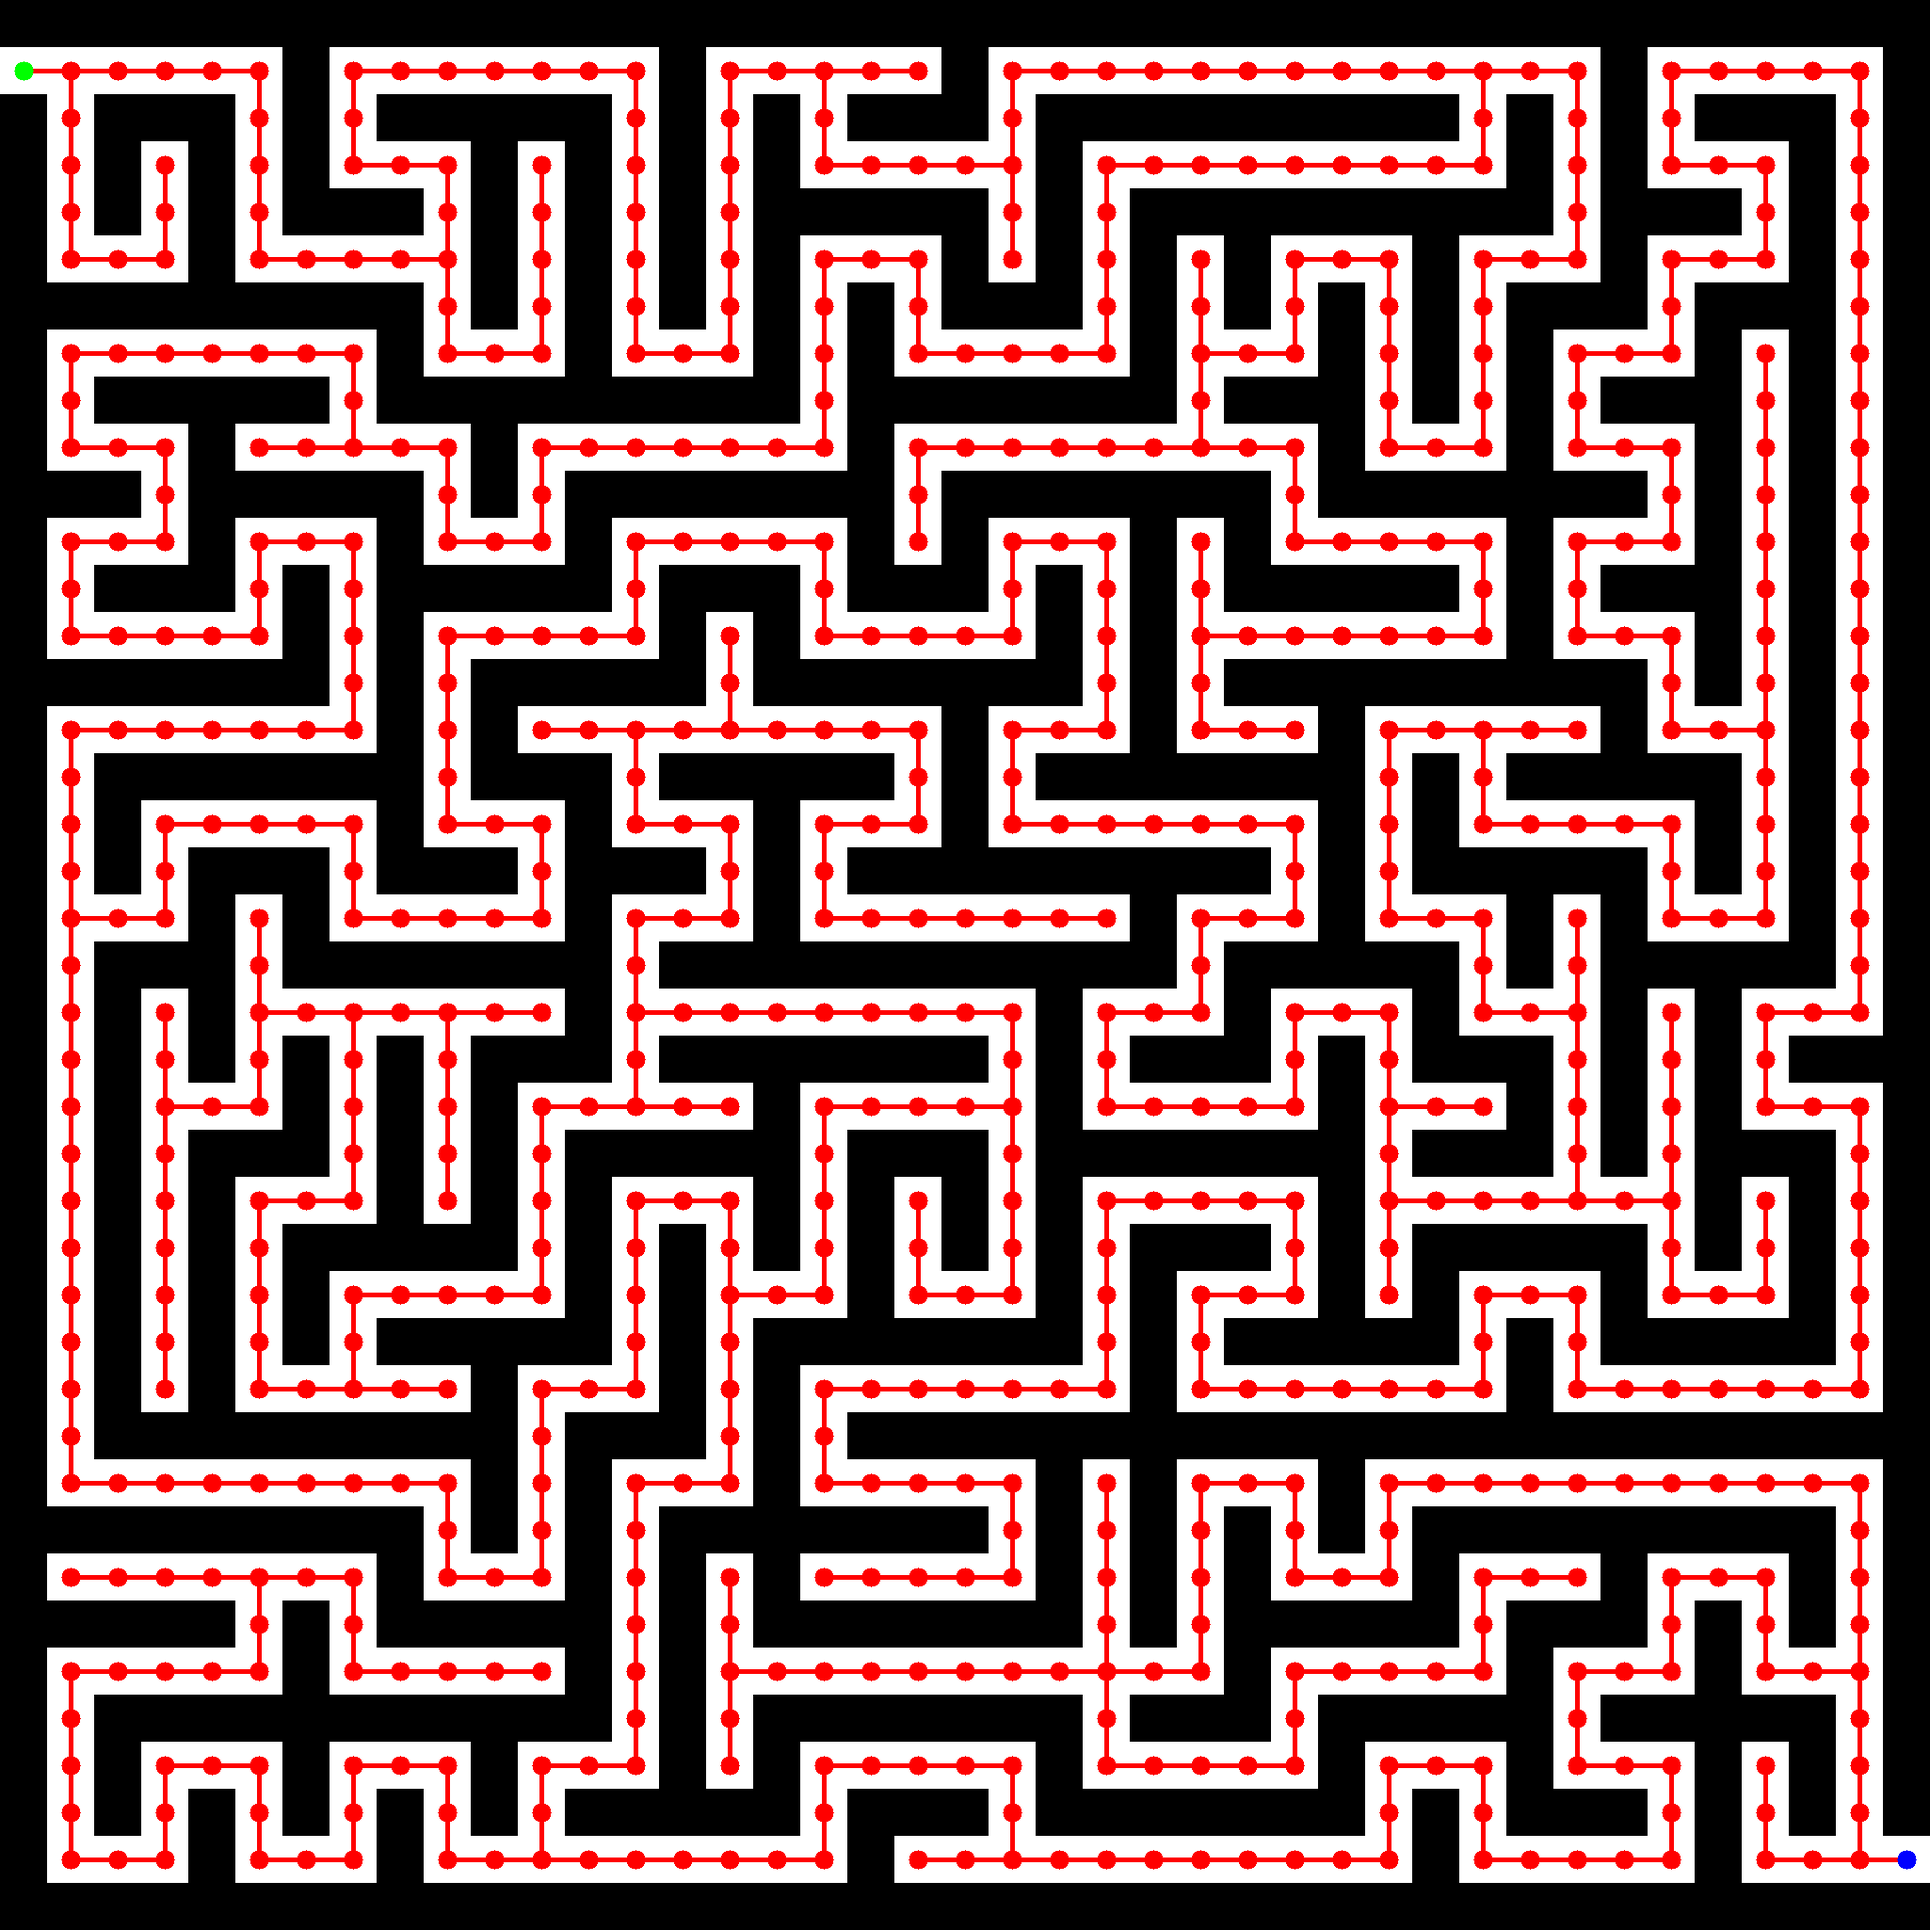
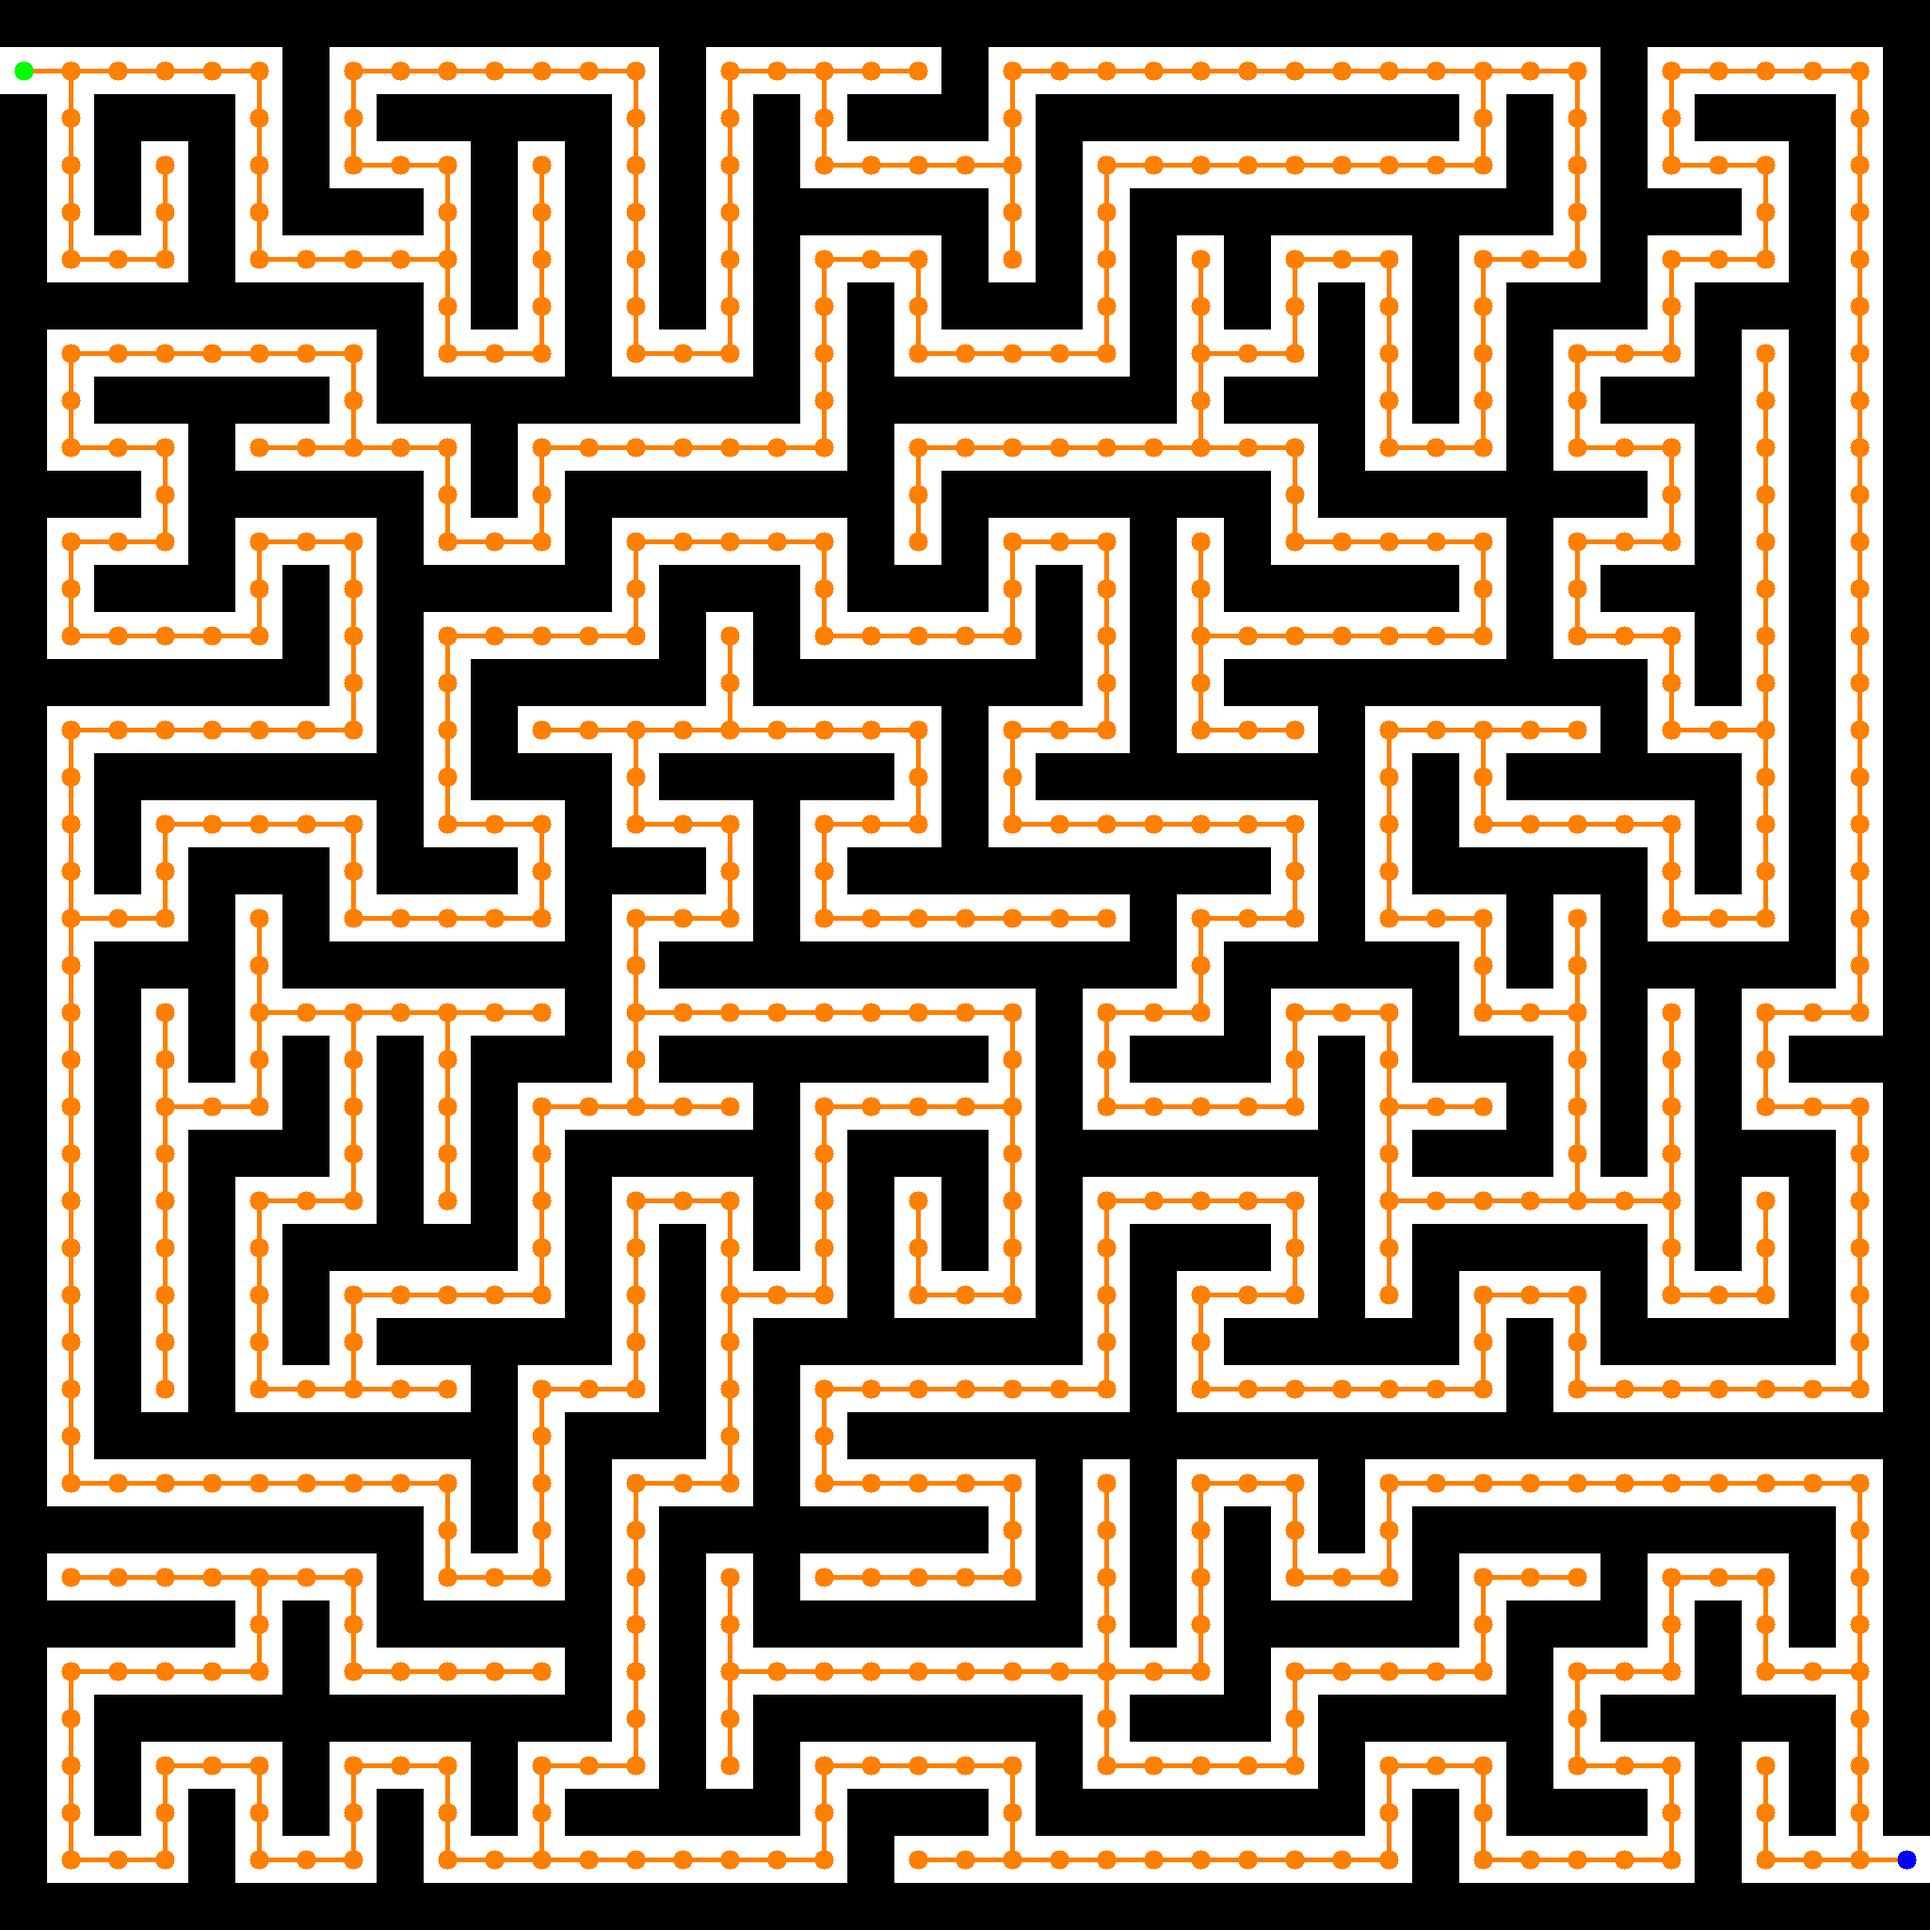
Imagem combinada na parte 7

diff --git a/src/lib/part_7.py b/src/lib/part_7.py
@@ -1,5 +1,5 @@
 from .part_1 import getScaledImage
-from .part_2 import Graph, EncoderID
+from .part_2 import Graph, EncoderID, getGraph
 from .part_3 import _drawLine, _drawCircle, _getCoords
 from PIL import Image
 
@@ -20,6 +20,31 @@ def DrawPath(path: list[int], scale: int = 40, show: bool = True, graph: Graph =
     if show: img.show()
     return img
 
+def DrawComb(path: list[int], scale: int = 40, show: bool = True, graph: Graph = None, lineOffPlace: int = 0, lineThick: int = 2, circleRadius: int = 10):
+    if graph is None: graph = getGraph()
+    img: Image.Image = getScaledImage(scale)
+
+    for a,b in graph.edges:
+            x1, y1 = _getCoords(a, scale)
+            x2, y2 = _getCoords(b, scale)
+    
+            _drawLine(img, (x1, y1), (x2, y2), lineThick, (255, 127, 0), offplace=lineOffPlace)
+
+    for v in graph.adj_list.keys():
+            x, y = _getCoords(v, scale)
+            _drawCircle(img, (x, y), circleRadius, (255, 127, 0))
+
+    for i in range(1, len(path)):
+            _drawLine(img, _getCoords(path[i-1], scale), _getCoords(path[i], scale), lineThick, (255, 0, 0), offplace=lineOffPlace)
+
+    for i in path:
+        _drawCircle(img, _getCoords(i, scale), circleRadius + 2, (255, 0, 0))
+
+    _drawCircle(img, _getCoords(graph.start, scale), circleRadius + 5, (0, 255, 0))
+    _drawCircle(img, _getCoords(graph.end, scale), circleRadius + 5, (0, 0, 255))
+    
+    if show: img.show()
+    return img
 
 def main():
     from .part_2 import getGraph
@@ -33,6 +58,8 @@ def main():
     path = reconstruir_caminho(graph.start, graph.end, parents)
 
     DrawPath(path, scale=50, show=True, lineOffPlace=10, lineThick=2, circleRadius=10)
+
+    DrawComb(path, scale=50, show=True, lineOffPlace=10, lineThick=2, circleRadius=10)
 
 
 if __name__ == "__main__":

diff --git a/src/lib/part_3.py b/src/lib/part_3.py
@@ -47,7 +47,7 @@ def drawGraph(scale: int = 40, show: bool = True, graph: Graph = None, lineOffPl
         x1, y1 = _getCoords(a, scale)
         x2, y2 = _getCoords(b, scale)
 
-        _drawLine(img, (x1, y1), (x2, y2), lineThick, (255, 0, 0), offplace=lineOffPlace)
+        _drawLine(img, (x1, y1), (x2, y2), lineThick, (255, 127, 0), offplace=lineOffPlace)
     
     for v in graph.adj_list.keys():
         x, y = _getCoords(v, scale)
@@ -57,7 +57,7 @@ def drawGraph(scale: int = 40, show: bool = True, graph: Graph = None, lineOffPl
         elif v == graph.end:
             _drawCircle(img, (x, y), circleRadius, (0, 0, 255))
         else:
-            _drawCircle(img, (x, y), circleRadius, (255, 0, 0))
+            _drawCircle(img, (x, y), circleRadius, (255, 127, 0))
     if show: img.show()
     return img
 
